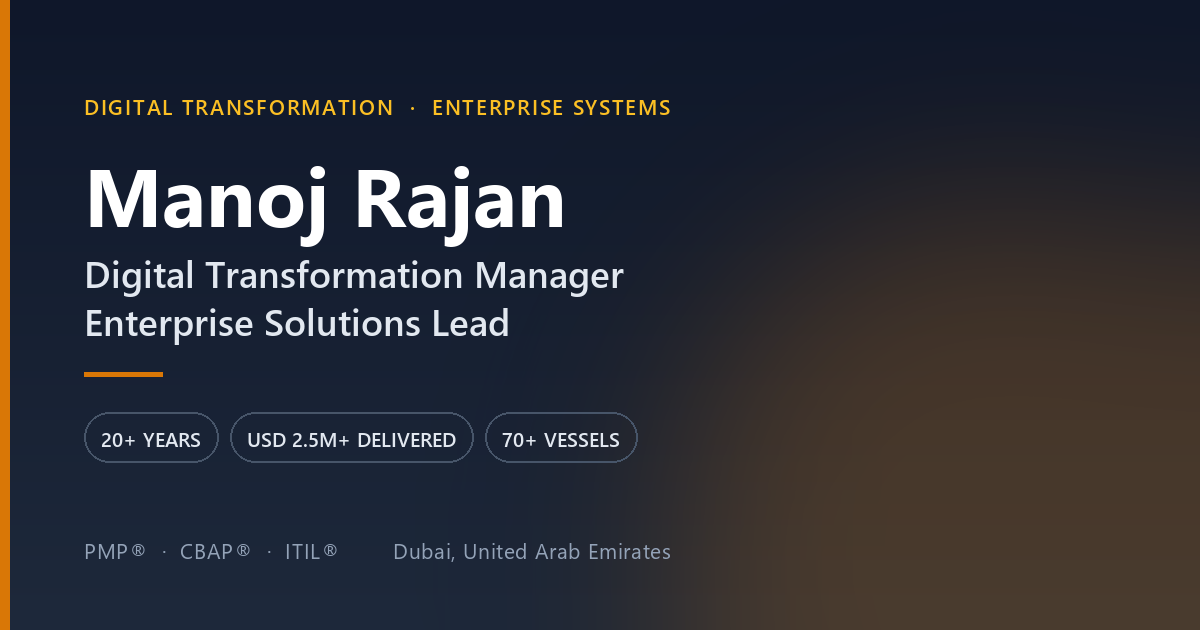
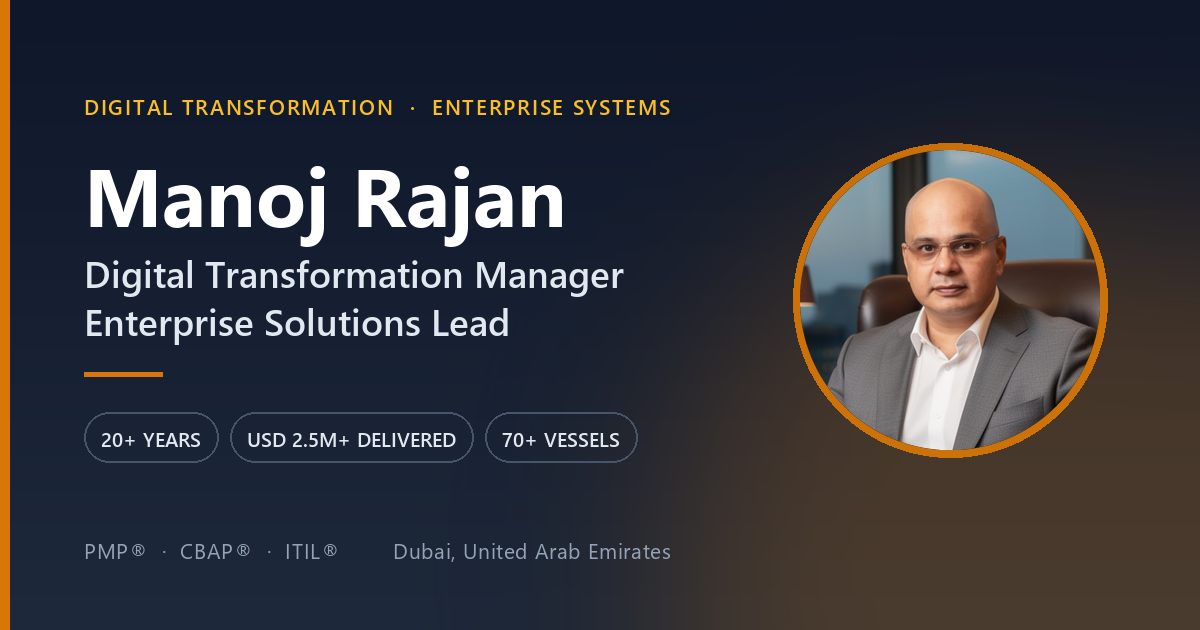
Add headshot and fix fallbacks masking the loaded photo
Crops the uploaded full-length shot to a 3:4 head-and-shoulders portrait
for assets/profile.jpg, framed so the face sits in the upper third and the
Meta AI watermark in the lower right is outside the crop. Keeps the
untouched original as assets/profile-source.jpg so the crop can be redone.

Tailwind's display utilities out-specify the UA rule behind the `hidden`
attribute, so each initials fallback was rendering alongside the photo that
had loaded successfully rather than instead of it. A [hidden] rule restores
the intended behaviour.

Regenerates the OpenGraph card with the headshot, biasing the square crop
towards the top so portrait sources keep the head.

Changed region(s): [[0.6475, 0.2111, 0.925, 0.7238]]

diff --git a/index.html b/index.html
@@ -90,6 +90,11 @@
 <style>
   body { -webkit-font-smoothing: antialiased; text-rendering: optimizeLegibility; }
 
+  /* Tailwind's display utilities (grid, flex …) out-specify the UA rule behind
+     the `hidden` attribute, so the image fallbacks would render on top of a
+     photo that loaded fine. Keep `hidden` authoritative. */
+  [hidden] { display: none !important; }
+
   /* Reveal-on-scroll (disabled for reduced-motion users, see JS) */
   .reveal { opacity: 0; transform: translateY(18px); transition: opacity .6s ease, transform .6s ease; }
   .reveal.is-visible { opacity: 1; transform: none; }

diff --git a/tools/make-og-image.py b/tools/make-og-image.py
@@ -64,11 +64,16 @@ def tracked(draw, xy, text, fnt, fill, tracking=0):
 
 
 def circular(img: Image.Image, size: int) -> Image.Image:
-    """Centre-crop to a square, resize, and mask to a circle."""
+    """Crop to a square, resize, and mask to a circle.
+
+    Horizontally centred, but biased towards the top on portrait sources so a
+    head-and-shoulders shot keeps the head instead of being cut at the brow.
+    """
     w, h = img.size
     side = min(w, h)
-    img = img.crop(((w - side) // 2, (h - side) // 2,
-                    (w - side) // 2 + side, (h - side) // 2 + side))
+    left = (w - side) // 2
+    top = int((h - side) * 0.12) if h > w else (h - side) // 2
+    img = img.crop((left, top, left + side, top + side))
     img = img.resize((size, size), Image.LANCZOS).convert("RGB")
 
     mask = Image.new("L", (size * 4, size * 4), 0)
